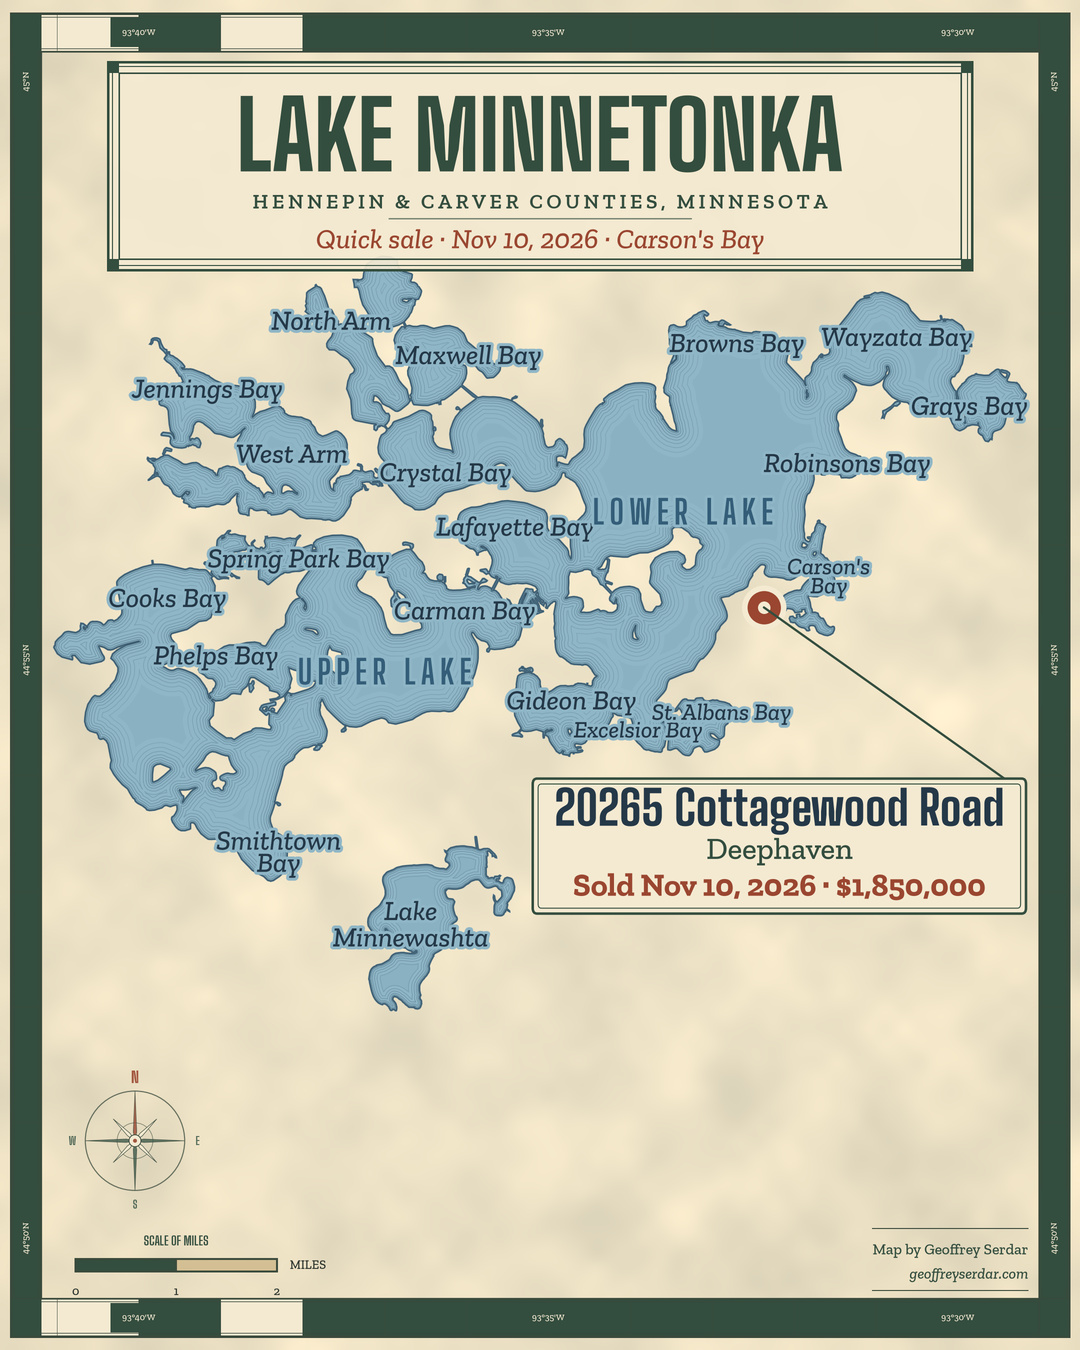
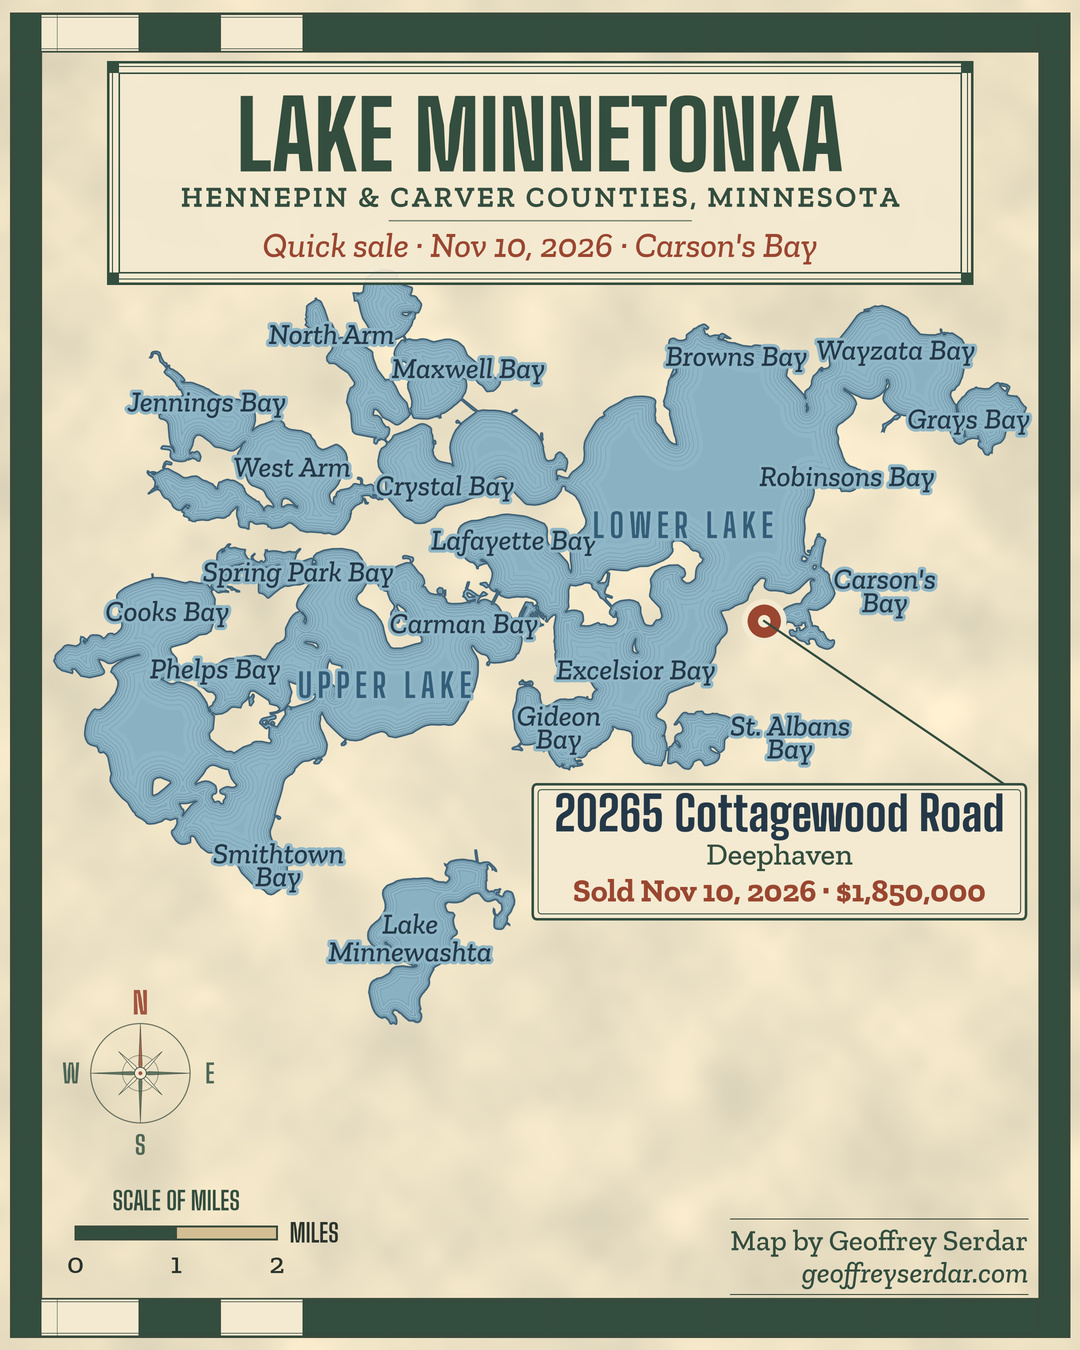
Replace the Cottagewood chart with the phone-legible map.
The new 1080x1350 file sits beside the Carson's Bay page, and the image alt text matches it.

diff --git a/lake-minnetonka/carsons-bay/index.html b/lake-minnetonka/carsons-bay/index.html
@@ -153,7 +153,7 @@ Sources for the Cottagewood sale (not shown on the page):
 <a class="submit-btn secondary" href="sms:+19522583100">Text Geoffrey</a>
 </form>
 <figure class="map-fig">
-<img src="cottagewood-map-1080.jpg" width="1080" height="1350" alt="Antique-style chart of Lake Minnetonka and Lake Minnewashta with a pin in Cottagewood on the west side of Carson's Bay in Deephaven, labeled 20265 Cottagewood Road, sold Nov 10, 2026, $1,850,000. Map data © OpenStreetMap contributors.">
+<img src="cottagewood-map-1080.jpg" width="1080" height="1350" alt="Antique-style chart of Lake Minnetonka and Lake Minnewashta with a pin in Cottagewood beside Carson's Bay in Deephaven, labeled 20265 Cottagewood Road, sold Nov 10, 2026, $1,850,000. Map by Geoffrey Serdar, geoffreyserdar.com. Map data © OpenStreetMap contributors.">
 <figcaption class="map-cap">The pin sits in Cottagewood, on the west side of Carson's Bay. The open Lower Lake is a few blocks to the west.</figcaption>
 </figure>
 <h2>The week it sold</h2>
